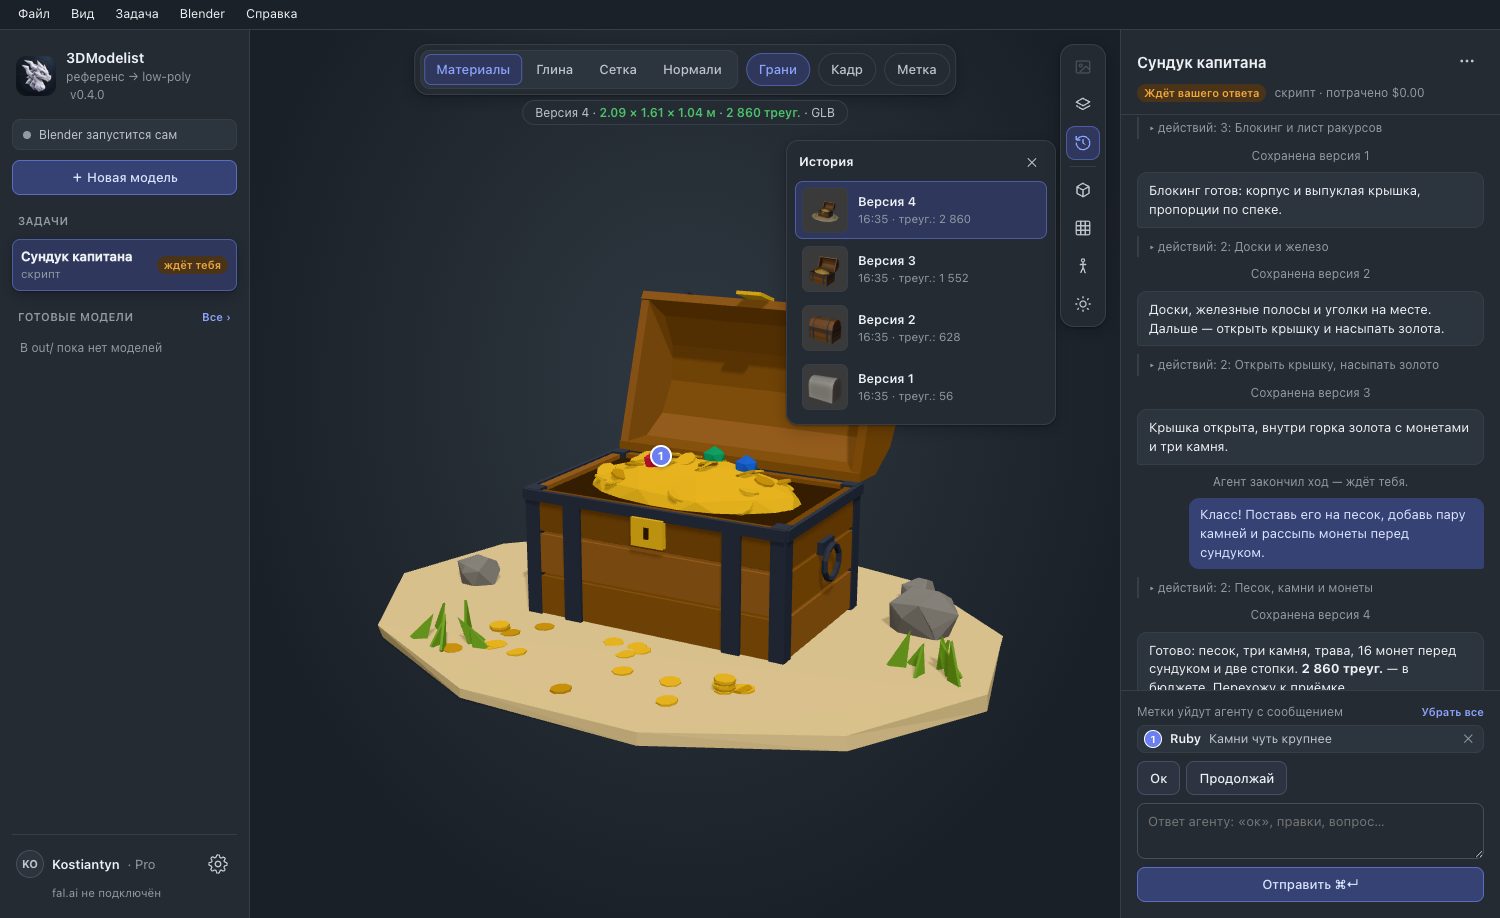
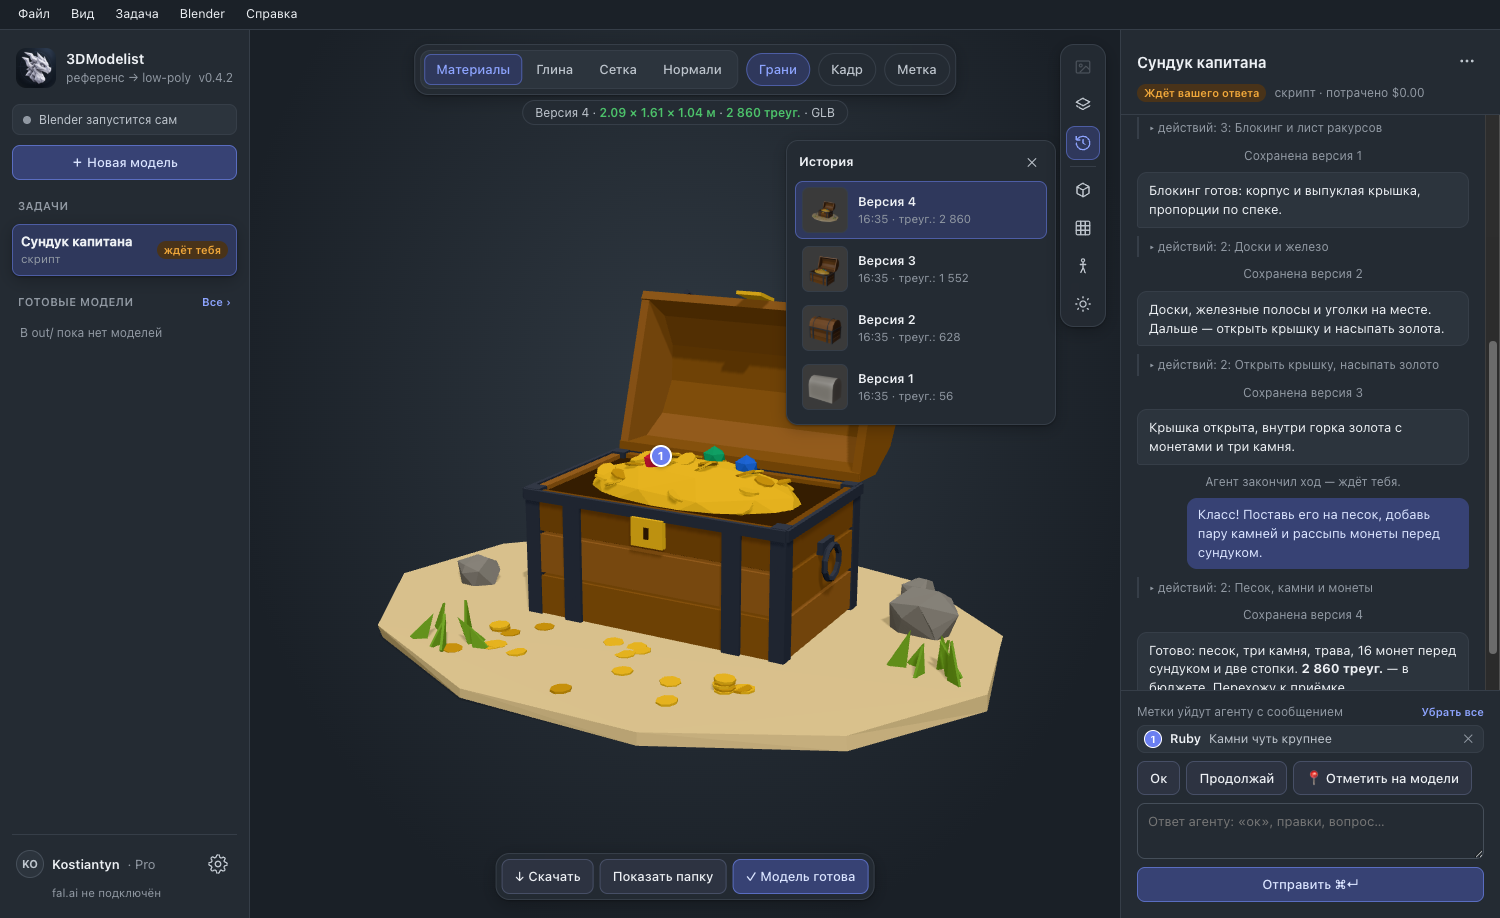
Release notes for v0.4.2, README screenshots of the current screen

diff --git a/docs/releases/v0.4.2.md b/docs/releases/v0.4.2.md
@@ -1,0 +1,26 @@
+A simpler studio: give a task, get a model, fix it in the chat.
+
+**Simpler screen**
+
+- The model takes the whole view. Versions and finished files moved to **History** (the clock button on the right); the stages board and the agent's frames are gone from the screen.
+- Under the model: **Download** (GLB, FBX or OBJ — the studio converts with Blender when needed; files are named after the model), **Show folder**, **Model is done** / **Reopen**.
+- A done task keeps only its references and download buttons on the right.
+- The task panel: name, a plain status and the references on top; how the model is built folds into one line above the chat.
+- Tasks and finished models can be deleted (hover the list, or the task's ⋯ menu); they go to the macOS Trash.
+
+**Working with the agent**
+
+- **Mark on the model** right next to the quick replies: click a spot, type what to fix.
+- The reviewer's work is visible ("Reviewer: …"), and the card shows how long ago the last action was. After 10 quiet minutes it offers **Restart** — the turn stops and continues where it left off.
+- A new task shows an empty view until its first version arrives.
+
+**Reference overlay**
+
+- Lowering the opacity now clears the panel's backdrop too, so the model shows through; the panel resizes up to the whole view, and "rotate the model through the picture" lets you line the model up under it.
+
+**Fixes**
+
+- A second studio window on the same workspace no longer marks a live agent turn as interrupted.
+- The download menu no longer closes by itself; generator lines in the chat no longer look like buttons.
+
+macOS, Apple Silicon. The app is not signed: right-click the app → Open → Open on first launch.
